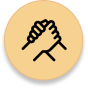
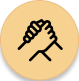
Improved homepage, navbar, and footer
Homepage: Rewrote (it was bad) and completed its functionality.
Navbar: Rewrote it (it was bad)
Footer: Added link tags and social media icons
Altered most images, cropping them

diff --git a/src/LandingPage.js b/src/LandingPage.js
@@ -1,36 +1,136 @@
+import {useState, useEffect} from "react"
+
 import cathedral from './images/cathedral.png';
 import brotherhood from './images/brotherhood.png'
 import professionalism from './images/professionalism.png'
 import service from './images/service.png'
 import gear from './images/gear.png'
+import triangle from './images/triangle.png'
+import bortherhoodPicture from './images/brotherhoodPicture.png'
+
 import groupPhoto from './images/groupPhoto.png'
 import interestedSword from './images/interestedSword.png'
 
 
+
 export default function LandingPage() {
+
+    const [brotherhoodOpen, setBrotherhoodOpen] = useState(false);
+    const [professionalismOpen, setProfessionalismOpen] = useState(false);
+    const [serviceOpen, setServiceOpen] = useState(false);
+    const [scrollPosition, setScrollPosition] = useState(0)
+
+    function handleSectionClick(section) {
+        setBrotherhoodOpen(section === "brotherhood" && !brotherhoodOpen);
+        setProfessionalismOpen(section === "professionalism" && !professionalismOpen);
+        setServiceOpen(section === "service" && !serviceOpen);
+    }
+
+    function handleScroll(container) {
+        setScrollPosition(container.scrollTop / (container.scrollHeight - container.clientHeight));
+    }
+
+    useEffect(() => {
+
+        const outerContainer = document.getElementById("outerContainer");
+        outerContainer.addEventListener("scroll", () => handleScroll(outerContainer));
+
+        return () => {
+            outerContainer.removeEventListener("scroll", handleScroll);
+        }
+
+    }, [])
+
     return(
-        <div>
-            <div className="flex justify-center">
-                <div className="relative w-[60%] h-[87.5vh] mt-[5vh]">
-                    <img className="absolute w-full top-0 left-0" src={cathedral} alt="cathedral" />
-                    <img className="absolute w-[10.2vw] top-[2vh] left-[25vw]" src={gear} alt="spinning gear" />
-                    <img className="absolute w-[4.5vw] top-[34vh] left-[9.5vw]" src={brotherhood} alt="brotherhood" />
-                    <img className="absolute w-[4.5vw] top-[34vh] left-[27.75vw]" src={professionalism} alt="professionalism" />
-                    <img className="absolute w-[4.5vw] top-[34vh] left-[46.5vw]" src={service} alt="service" />
+        <div className="flex flex-col items-center">
+
+            {/*Cathedral section*/}
+            <div className="relative mt-16 mb-32 overflow-visible">
+
+                <img src={cathedral} className="max-w-[80vw]" alt="cathedral" />
+
+                <div className="absolute top-[4.2%] left-[40.8%] w-[18.26%] h-[27.14%] overflow-hidden">
+                    <img src={gear} style={{transform: `rotate(${scrollPosition * 360}deg)`}} alt="gear" />
                 </div>
-            </div>
-            <div className="flex align-center justify-center bg-[#DCA543]">
-                <div className="w-[25%] flex flex-col align-center justify-center text-center m-5">
-                    <div className="font-bold text-2xl">Who We Are</div>
-                    <div className="">
-                        Theta Tau is a co-ed professional engineering fraternity at the University of Central Florida. We are a close knit brotherhood that encourages our members to excel professionally and give back to the surrounding community.
+
+                <button onClick={() => handleSectionClick("brotherhood")} className="absolute top-[48.5%] left-[9.24%] w-[8.59%] h-[13.1%] border border-black rounded-full">
+                    <img src={brotherhood} alt="brotherhood" />
+                    <div className="absolute top-0 left-0 rounded-full w-full h-full hover:bg-black opacity-15" />
+                </button>
+
+                <button onClick={() => handleSectionClick("professionalism")} className="absolute top-[48.5%] left-[45.4%] w-[8.59%] h-[13.1%] border border-black rounded-full">
+                    <img src={professionalism} alt="professionalism" />
+                    <div className="absolute top-0 left-0 rounded-full w-full h-full hover:bg-black opacity-15" />
+                </button>
+                
+                <button onClick={() => handleSectionClick("service")} className="absolute top-[48.5%] left-[82.3%] w-[8.59%] h-[13.1%] border border-black rounded-full">
+                    <img src={service} alt="service" />
+                    <div className="absolute top-0 left-0 rounded-full w-full h-full hover:bg-black opacity-15" />
+                </button>
+
+                {brotherhoodOpen &&
+                    <div className="absolute top-[65%] left-[5%] w-[90%] h-fit bg-[#DCA543] overflow-visible
+                                    transition-opacity duration-500 opacity-0"
+                        style={{opacity: brotherhoodOpen ? "1" : "0", transition: "opacity 0.5s ease-in-out"}}>
+                        <img className="absolute top-[-11.5%] left-[7.15%] w-[4.83%] h-[12.3%]" src={triangle} alt="triangle" />
+                        <div className="w-full h-full flex flex-row items-center justify-between ">
+                            <div className="flex flex-col flex-1 h-full items-center justify-center text-center m-[2%]
+                                            text-[13px] lg:text-[16px]
+                                            ">
+                                <div className="font-bold text-[2em]">Brotherhood</div>
+                                <div className="">We forge lifelong bonds of fraternal friendship, a journey that develops and delivers a network of lasting personal and professional relationships. We foster an inviting, safe, and social environment.</div>
+                            </div>
+                            <img src={bortherhoodPicture} className="w-[44.5%] m-[0.5%] border border-black" alt="Members of Theta Tau standing together on hike" />
+                        </div>
                     </div>
+                }
+
+                {professionalismOpen && 
+                    <div className="absolute top-[65%] left-[5%] w-[90%] h-fit bg-[#DCA543] overflow-visible">
+                        <img className="absolute top-[-11.5%] left-[47.225%] w-[4.83%] h-[12.3%]" src={triangle} alt="triangle" />
+                        <div className="w-full h-full flex flex-row items-center justify-between ">
+                            <div className="flex flex-col flex-1 h-full items-center justify-center text-center m-[2%]
+                                            lg:text-[16px] text-[11px]
+                                            ">
+                                <div className="font-bold text-[2em]">Professionalism</div>
+                                <div className="">INSER PROFESSIONALISM PARAGRAPH</div>
+                            </div>
+                            <img src={bortherhoodPicture} className="w-[44.5%] m-[0.5%] border border-black" alt="Members of Theta Tau standing together on hike" />
+                        </div>
+                    </div>
+                }
+
+                {serviceOpen &&
+                    <div className="absolute top-[65%] left-[5%] w-[90%] h-fit bg-[#DCA543] overflow-visible">
+                        <img className="absolute top-[-11.5%] left-[88.5%] w-[4.83%] h-[12.3%]" src={triangle} alt="triangle" />
+                        <div className="w-full h-full flex items-center justify-between ">
+                            <div className="flex flex-col flex-1 h-full items-center justify-center text-center m-[2%]
+                                            lg:text-[16px] text-[11px]
+                                            ">
+                                <div className="font-bold text-[2em]">Service</div>
+                                <div className="">INSERT SERVICE PARAGRAPH</div>
+                            </div>
+                            <img src={bortherhoodPicture} className="w-[44.5%] m-[0.5%] border border-black" alt="Members of Theta Tau standing together on hike" />
+                        </div>
+                    </div>
+                }
+
+            </div>
+
+            {/*Who We Are section*/}
+            <div className="bg-[#DCA543] w-full flex flex-col lg:flex-row items-center justify-center border-y border-black">
+                <div className="text-center max-w-[30em] p-4">
+                    <div className="text-3xl font-bold">Who We Are</div>
+                    <div>Theta Tau is a co-ed professional engineering fraternity at the University of Central Florida. We are a close knit brotherhood that encourages our members to excel professionally and give back to the surrounding community.</div>
                 </div>
-                <img src={groupPhoto} className="border border-black mx-5" alt="group of Theta Tau members" />
+                <img src={groupPhoto} className="border border-black m-4" alt="Group of Theta Tau members" />
             </div>
-            <div className="flex justify-center relative">
-                <img className="w-[50vw] p-5 mt-10" src={interestedSword} alt="sword" />
+
+            {/*Interested section*/}
+            <div>
+                <img src={interestedSword} className="my-16" alt="Interested in the brotherhood?" />
             </div>
+
         </div>
     )
 }

diff --git a/src/Navbar.js b/src/Navbar.js
@@ -1,58 +1,26 @@
-import { Link } from 'react-router-dom';
-import { useState } from 'react';
+import { Link } from "react-router-dom"
 
-import logo from './images/logo.png';
-import hamburger from './images/hamburger.png';
+import logo from './images/logo.png'
 
 const Navbar = () => {
-    
-    const [hamburgerExpanded, setHamburgerExpanded] = useState(false);
-
-    function handleHamburgerClick() {
-        setHamburgerExpanded(!hamburgerExpanded);
-    }
-
-    function handleLogoClick() {
-        window.open('https://www.thetataupg.org/', '_blank');
-    }
-
     return(
-        <div className="navBar relative overflow-visible">
-            <div className="logoContainer link" onClick={handleLogoClick}>
-                <img className="navLogo" src={logo} alt="Theta Tau Logo"/>
-                <div className="sm:text-sm lg:text-base">
-                    <div style={{fontWeight: "bolder", fontSize: "1.35em"}}>Theta Tau</div>
-                    <div style={{whiteSpace: "nowrap"}}>Professional Engineering Fraternity </div>
+        <div className="bg-[#DCA543] w-full flex items-center justify-between border-b border-black">
+            {/*Logo/Title Section*/}
+            <a href="https://www.thetataupg.org/" target="_blank" rel="noopener noreferrer" className="flex ml-2 h-full hover:underline">
+                <img src={logo} className="h-full aspect-[50/77] p-2" alt="Theta Tau Logo" />
+                <div className="p-2 flex flex-col justify-center">
+                    <div className="font-bold text-xl">Theta Tau</div>
+                    <div className="">Professional Engineering Fraternity</div>
                 </div>
+            </a>
+            {/*Navigation Section*/}
+            <div className="flex text-[#473F3F] text-xl mr-2">
+                <Link to="/" className="px-2 hover:underline">Home</Link>
+                <Link to="/shop" className="px-2 hover:underline">Shop</Link>
+                <Link to="brothers" className="px-2 hover:underline">Brothers</Link>
+                <Link to="rush" className="px-2 hover:underline">Rush</Link>
+                <Link to="events" className="px-2 hover:underline">Events</Link>
             </div>
-
-            {/*Desktop Navbar*/}
-            <div className="hidden lg:block">
-                <div className="flex flex-row align-center">
-                    <Link to="/"><div className="navButton">Home</div></Link>
-                    <Link to="/shop"><div className="navButton">Shop</div></Link>
-                    <Link to="/brothers"><div className="navButton">Brothers</div></Link>
-                    <Link to="/rush"><div className="navButton">Rush</div></Link>
-                    <Link to="/events"><div className="navButton">Events</div></Link>
-                </div>
-            </div>
-
-            {/*Mobile Navbar (Hamburger Menu)*/}
-            <div className="lg:hidden">
-                <div className="sm:block lg:hidden">
-                    <img className="bg-white/50 border border-black p-1 rounded-md h-10 aspect-square mr-2" src={hamburger} onClick={handleHamburgerClick}  alt="hamburger menu"/>
-                    {hamburgerExpanded &&
-                    <div className="flex flex-col align-center justify-center absolute right-1 top-14 p-1 border border-black text-black bg-[#DCA543] bg-white/50 rounded-md">
-                        <Link to="/"><div className="border-b border-black">Home</div></Link>
-                        <Link to="/shop"><div className="border-b border-black">Shop</div></Link>
-                        <Link to="/brothers"><div className="border-b border-black">Brothers</div></Link>
-                        <Link to="/rush"><div className="border-b border-black">Rush</div></Link>
-                        <Link to="/events"><div className="border-b border-black">Events</div></Link>
-                    </div>
-                    }
-                </div>
-            </div>
-            
         </div>
     )
 }

diff --git a/src/Footer.js b/src/Footer.js
@@ -1,35 +1,39 @@
+import instagram from './images/instagram.png'
+import facebook from './images/facebook.png'
+import twitter from './images/twitter.png'
+
 const Footer = () => {
     return(
         <div className="border-t border-black flex align-center justify-center">
             <div className="p-3">
                 <strong>Theta Tau</strong>
                 <br />
-                Rho Gamma Chapter
+                <a href="/PUTLINKHERE" target="_blank" rel="noopener noreferrer" className="hover:underline">Rho Gamma Chapter</a>
                 <br />
-                University of Central Florida
+                <a href="/PUTLINKHERE" target="_blank" rel="noopener noreferrer" className="hover:underline">University of Central Florida</a>
                 <br />
-                2020 Theta Tau Rho Gamma
-                <br />
-                Chapter
+                <a href="/PUTLINKHERE" target="_blank" rel="noopener noreferrer" className="hover:underline">2020 Theta Tau Rho Gamma Chapter</a>
             </div>
             <div className="p-3">
                 <strong>General</strong>
                 <br />
-                National Theta Tau
+                <a href="/PUTLINKHERE" target="_blank" rel="noopener noreferrer" className="hover:underline">National Theta Tau</a>
                 <br />
-                About
+                <a href="/PUTLINKHERE" target="_blank" rel="noopener noreferrer" className="hover:underline">About</a>
             </div>
             <div className="p-3">
                 <strong>Recruitment</strong>
                 <br />
-                FAQ
+                <a href="/PUTLINKHERE" target="_blank" rel="noopener noreferrer" className="hover:underline">FAQ</a>
                 <br />
-                Apply
+                <a href="/PUTLINKHERE" target="_blank" rel="noopener noreferrer" className="hover:underline">Apply</a>
             </div>
             <div className="p-3 flex flex-col align-center">
                 <strong className="text-center">Socials</strong>
-                <div>
-                    INSTA FACEB TWITT
+                <div className="flex">
+                    <a href="/PUTLINKHERE" target="_blank" rel="noopener noreferrer"><img className="px-1" src={instagram} alt="instagram logo"/></a>
+                    <a href="/PUTLINKHERE" target="_blank" rel="noopener noreferrer"><img className="px-1" src={facebook} alt="facebook logo" /></a>
+                    <a href="/PUTLINKHERE" target="_blank" rel="noopener noreferrer"><img className="px-1" src={twitter} alt="x/twitter logo" /></a>
                 </div>
                 
             </div>

diff --git a/src/App.css b/src/App.css
@@ -6,72 +6,6 @@
     overflow-x: hidden;
 }
 
-body {
-    background: #7B1A1A;
-    color: black;
-    margin: 0;
-    padding: 0;
-}
-
-.wholePage {
-    height: 92.5vh;
-    width: 100vw;
-    overflow-y: auto;
-}
-
-.navBar {
-    position: sticky;
-    height: 7.5vh;
-    width: 100vw;
-    background: #DCA543;
-
-    display: flex;
-    flex-direction: row;
-    align-items: center;
-    justify-content: space-between;
-
-    border-bottom: 1px solid black;
-}
-
-.navElements {
-    display: flex;
-    flex-direction: row;
-    align-items: center;
-}
-
-.navButton {
-    padding-left: 0.8em;
-    padding-right: 0.8em;
-    font-size: 1.2em;
-}
-
-.navButton:hover {
-    text-decoration: underline;
-    cursor: pointer;
-}
-
-.logoContainer {
-    height: 100%;
-    display: flex;
-    flex-direction: row;
-    align-items: center;
-    justify-content: center;
-    overflow-y: hidden;
-}
-
-.logoContainer img {
-    height: 90%;
-    aspect-ratio: 0.56;
-    margin-left: 1em;
-    margin-right: 1em;
-}
-
-.logoContainer:hover {
-    cursor: pointer;
-    text-decoration: underline;
-}
-
-
 /* Rush page */
 
 /* Let's Rush */

diff --git a/src/Routing.js b/src/Routing.js
@@ -11,10 +11,10 @@ import Footer from "./Footer";
 
 export default function Routing() {
     return(
-        <div>
+        <div className="flex flex-col h-screen">
             <Router>
                 <Navbar />
-                <div className="wholePage">
+                <div id="outerContainer" className="flex-1 overflow-y-auto bg-[#7B1A1A]">
                     <Routes>
                         <Route path="/" element={<LandingPage />} />
                         <Route path="/brothers" element={<Brothers />} />
@@ -26,7 +26,6 @@ export default function Routing() {
                     </Routes>
                     <Footer />
                 </div>
-                
             </Router>
         </div>
     )
